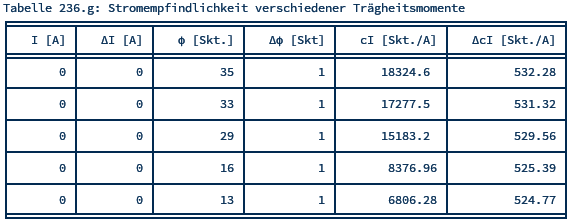
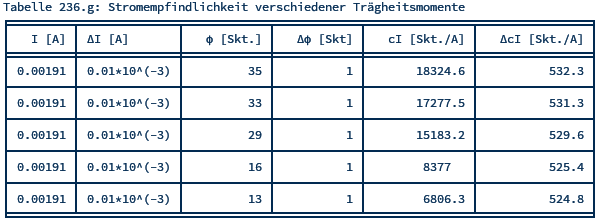
physik361 versuch 236 nachtrag

Changed region(s): [[0.0, 0.0, 1.0, 1.0]]

diff --git a/physik_261-661/physik_361/236/auswertung.py b/physik_261-661/physik_361/236/auswertung.py
@@ -4,7 +4,7 @@ import matplotlib.pyplot as plt
 from tabulate import tabulate
 import geradenfit as gf
 
-execute = 'h'
+execute = 'g'
 
 #{{{ c
 def c():
@@ -47,11 +47,12 @@ def g():
     vph = np.array([35,33,29,16,13]) # Skt
     delt_vph = np.zeros(len(vph))+1 # Skr
     I = np.zeros(len(vph))+1.91e-3 # A
-    delt_I = np.zeros(len(vph))+0.01e-3 # A 
+    delt_I = np.zeros(len(vph))+0.01*10**(-3) # A 
+    delt_I_string = ['0.01*10^(-3)','0.01*10^(-3)','0.01*10^(-3)','0.01*10^(-3)','0.01*10^(-3)']
     cI = vph/I # Skt/A
     delt_cI = np.sqrt((delt_vph/I)**2+(vph/I**2*delt_I)**2) # Skt/A
 
-    data = np.round(np.transpose([I,delt_I,vph,delt_vph,cI,delt_cI]),2)
+    data = np.transpose([I,delt_I_string,vph,delt_vph,np.round(cI,1),np.round(delt_cI,1)])
     headers = ['I [A]','ΔI [A]',r'φ [Skt.]',r'Δφ [Skt]',r'cI [Skt./A]','ΔcI [Skt./A]']
     print('Tabelle 236.g: Stromempfindlichkeit verschiedener Trägheitsmomente')
     print(tabulate(data,headers=headers,tablefmt='fancy_grid'))
